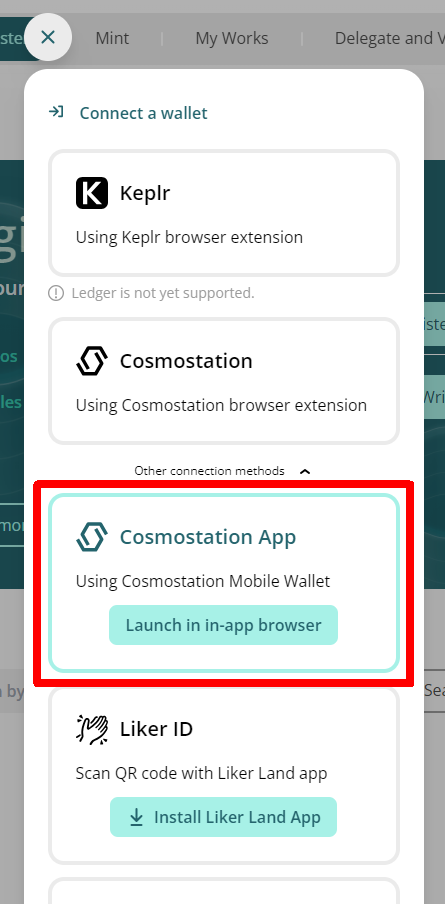
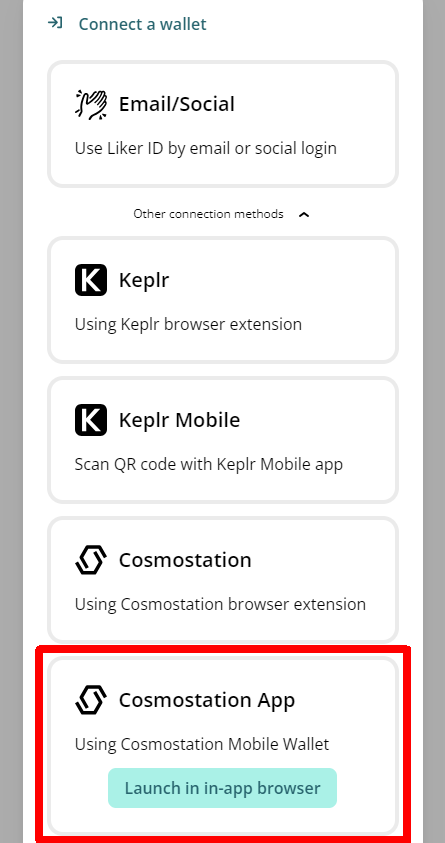
GITBOOK-4663: 如何註冊 ISCN

Changed region(s): [[0.0, 0.1542, 1.0, 1.0], [0.0, 0.0, 1.0, 0.2776], [0.5843, 0.1542, 0.7596, 0.1851]]

diff --git a/depub/what-is-iscn/app.like.co/authcore.md b/depub/what-is-iscn/app.like.co/authcore.md
@@ -1,8 +1,8 @@
 ---
-description: 使用 Cosmostation app 註冊 ISCN
+description: 使用電郵或社交登入註冊 ISCN
 ---
 
-# Cosmostation app
+# 電郵或社交登入
 
 ## 步驟一：登入 app.like.co
 
@@ -10,29 +10,7 @@ description: 使用 Cosmostation app 註冊 ISCN
 
 <figure><img src="../../../.gitbook/assets/ISCN 1.png" alt=""><figcaption><p>在 app.like.co 點右上角「Connect Wallet」或直接點「Register ISCN」</p></figcaption></figure>
 
-點「Cosmostation app」登入後出現二維碼。
-
-<figure><img src="../../../.gitbook/assets/ISCN Cosmostation app.png" alt=""><figcaption><p>以 Cosmostation app 登入 app.like.co</p></figcaption></figure>
-
-<figure><img src="../../../.gitbook/assets/NFT Portal Cosmotation app 1.png" alt=""><figcaption><p>點 Cosmostation app 後出現二維碼</p></figcaption></figure>
-
-在 [Cosmostation 手機錢包](../../../general-guides/wallet/cosmostation-mobile/)點「Wallet Connect」調用鏡頭，並掃瞄二維碼。
-
-<figure><img src="../../../.gitbook/assets/NFT Portal Cosmotation app 2.png" alt=""><figcaption><p>打開 Cosmostation app 點 Wallet Connect 掃瞄二維碼</p></figcaption></figure>
-
-輸入 PIN 碼確認。
-
-<figure><img src="../../../.gitbook/assets/NFT Portal Cosmotation app 3.jpg" alt=""><figcaption><p>PIN 碼認證</p></figcaption></figure>
-
-點「OK」確認連結。
-
-<figure><img src="../../../.gitbook/assets/NFT Portal Cosmotation app 4.png" alt=""><figcaption><p>點「OK」確認連結</p></figcaption></figure>
-
-成功連結。
-
-<figure><img src="../../../.gitbook/assets/NFT Portal Cosmotation app 5.png" alt=""><figcaption><p>成功連結 app.like.co</p></figcaption></figure>
-
-完成連結後右上角顯示你的錢包地址，點「Register ISCN」開始註冊。
+點「Email/Social」後彈出視窗要求連結，請於桌面電腦瀏覽器[以電郵或社交登入](../../../user-guide/liker-id/register/)。
 
 <figure><img src="../../../.gitbook/assets/ISCN 2.png" alt=""><figcaption><p>成功連結 app.like.co 並顯示錢包地址</p></figcaption></figure>
 
@@ -48,8 +26,6 @@ description: 使用 Cosmostation app 註冊 ISCN
 
 <figure><img src="../../../.gitbook/assets/ISCN 5.png" alt=""><figcaption><p>點「View File Info」查看檔案的屬性和狀態再點再點「Start Upload」</p></figcaption></figure>
 
-
-
 <figure><img src="../../../.gitbook/assets/ISCN 4.png" alt=""><figcaption><p>檔案的屬性和狀態</p></figcaption></figure>
 
 ### 不上傳內容
@@ -62,7 +38,7 @@ description: 使用 Cosmostation app 註冊 ISCN
 
 填寫關於此項內容的元數據：
 
-* Register your asset in Numbers Protocol－勾選它可將內容一拼傳送到 [Numbers Protocol](https://www.numbersprotocol.io/)（不適用於不需上傳內容的作品）
+* Register your asset in Numbers Protocol－勾選它可將內容一拼傳送到 [Numbers Protoco](https://www.numbersprotocol.io/)l（不適用於不需上傳內容的作品）
 * ISCN Title－ISCN 標題
 * Description－內容描述
 * Author－點它填寫更多內容，並可加入多於一名創作者
@@ -82,10 +58,6 @@ description: 使用 Cosmostation app 註冊 ISCN
 雖然很多欄目也不是必填，但建議盡量填寫讓別人可容易發堀你的內容。系統會估算這次註冊所需的費用，點「Register」繼續。
 
 ## 步驟四：簽署並獲取 ISCN
-
-彈出 Request Transaction Sign 視窗要求簽署，點「Confirm」。
-
-<figure><img src="../../../.gitbook/assets/ISCN 12.png" alt=""><figcaption><p>Cosmostation app 彈出 Request Transaction Sign 視窗，點「Confirm」</p></figcaption></figure>
 
 要成功註冊 ISCN 需簽署兩次，分別為：
 

diff --git a/depub/what-is-iscn/app.like.co/README.md b/depub/what-is-iscn/app.like.co/README.md
@@ -5,7 +5,7 @@ description: 第一個 ISCN 的概念示範應用
 # 如何註冊 ISCN
 
 {% hint style="info" %}
-### 📣註冊 ISCN 需要使用 LikeCoin，用戶可於[水龍頭](../../../general-guides/faucet.md)取得少量 LikeCoin 以作測試
+📣出版 Writing NFT 需使用桌面電腦及 LikeCoin，用戶可於[水龍頭](../../../general-guides/faucet.md)取得少量 LikeCoin 以作測試
 {% endhint %}
 
 用戶可經 [app.like.co](https://app.like.co/) 為每個內容註冊 ISCN，系統將基於 ISCN ID 隨機生成一幅獨一無異的美術圖卡。就算兩筆 ISCN 記錄只差之毫釐，ISCN 圖卡的圖案也會完全不同！
@@ -20,9 +20,9 @@ description: 第一個 ISCN 的概念示範應用
 
 ## 註冊 ISCN 的方式
 
-#### 建議 :thumbsup: 用戶以 [Keplr](keplr.md) 連結並登入 [app.like.co](https://app.like.co/) 嘗試註冊自己的 ISCN。
+#### 建議:thumbsup:以[電郵或社交登入](authcore.md) [app.like.co](https://app.like.co/) 嘗試註冊自己的 ISCN。
 
-用戶也可使用 [Cosmostation](../../nft-portal/cosmostation.md)、[Cosmostation app](../../nft-portal/cosmostation-app.md) 或 [Liker ID](../../../archive/archive/writing-nft/likecoin-app.md) 進行註冊。
+用戶也可使用 [Keplr](keplr.md)、[Cosmostation](cosmostation.md)、[Cosmostation app](cosmostation-app.md) 或 [LikeCoin 手機應用程式](likecoin-app.md)進行註冊。
 
 或於 [Matters](matters.md) 網站發文時一拼註冊 ISCN。
 

diff --git a/SUMMARY.md b/SUMMARY.md
@@ -54,6 +54,7 @@
   * [ISCN 的去中心特性對內容生態有什麼好處？](depub/what-is-iscn/benefits.md)
   * [ISCN 支援什麼內容格式？](depub/what-is-iscn/content-type.md)
   * [如何註冊 ISCN](depub/what-is-iscn/app.like.co/README.md)
+    * [電郵或社交登入](depub/what-is-iscn/app.like.co/authcore.md)
     * [Keplr](depub/what-is-iscn/app.like.co/keplr.md)
     * [Cosmostation](depub/what-is-iscn/app.like.co/cosmostation.md)
     * [Cosmostation app](depub/what-is-iscn/app.like.co/cosmostation-app.md)

diff --git a/depub/nft-portal/README.md b/depub/nft-portal/README.md
@@ -5,7 +5,7 @@ description: 把任何網頁文章內容出版成 NFT
 # 出版 Writing NFT
 
 {% hint style="info" %}
-📣出版 Writing NFT 使用桌面電腦及 LikeCoin，用戶可於[水龍頭](../../general-guides/faucet.md)取得少量 LikeCoin 以作測試
+📣出版 Writing NFT 需使用桌面電腦及 LikeCoin，用戶可於[水龍頭](../../general-guides/faucet.md)取得少量 LikeCoin 以作測試
 {% endhint %}
 
 ## 出版 Writing NFT 的方式
